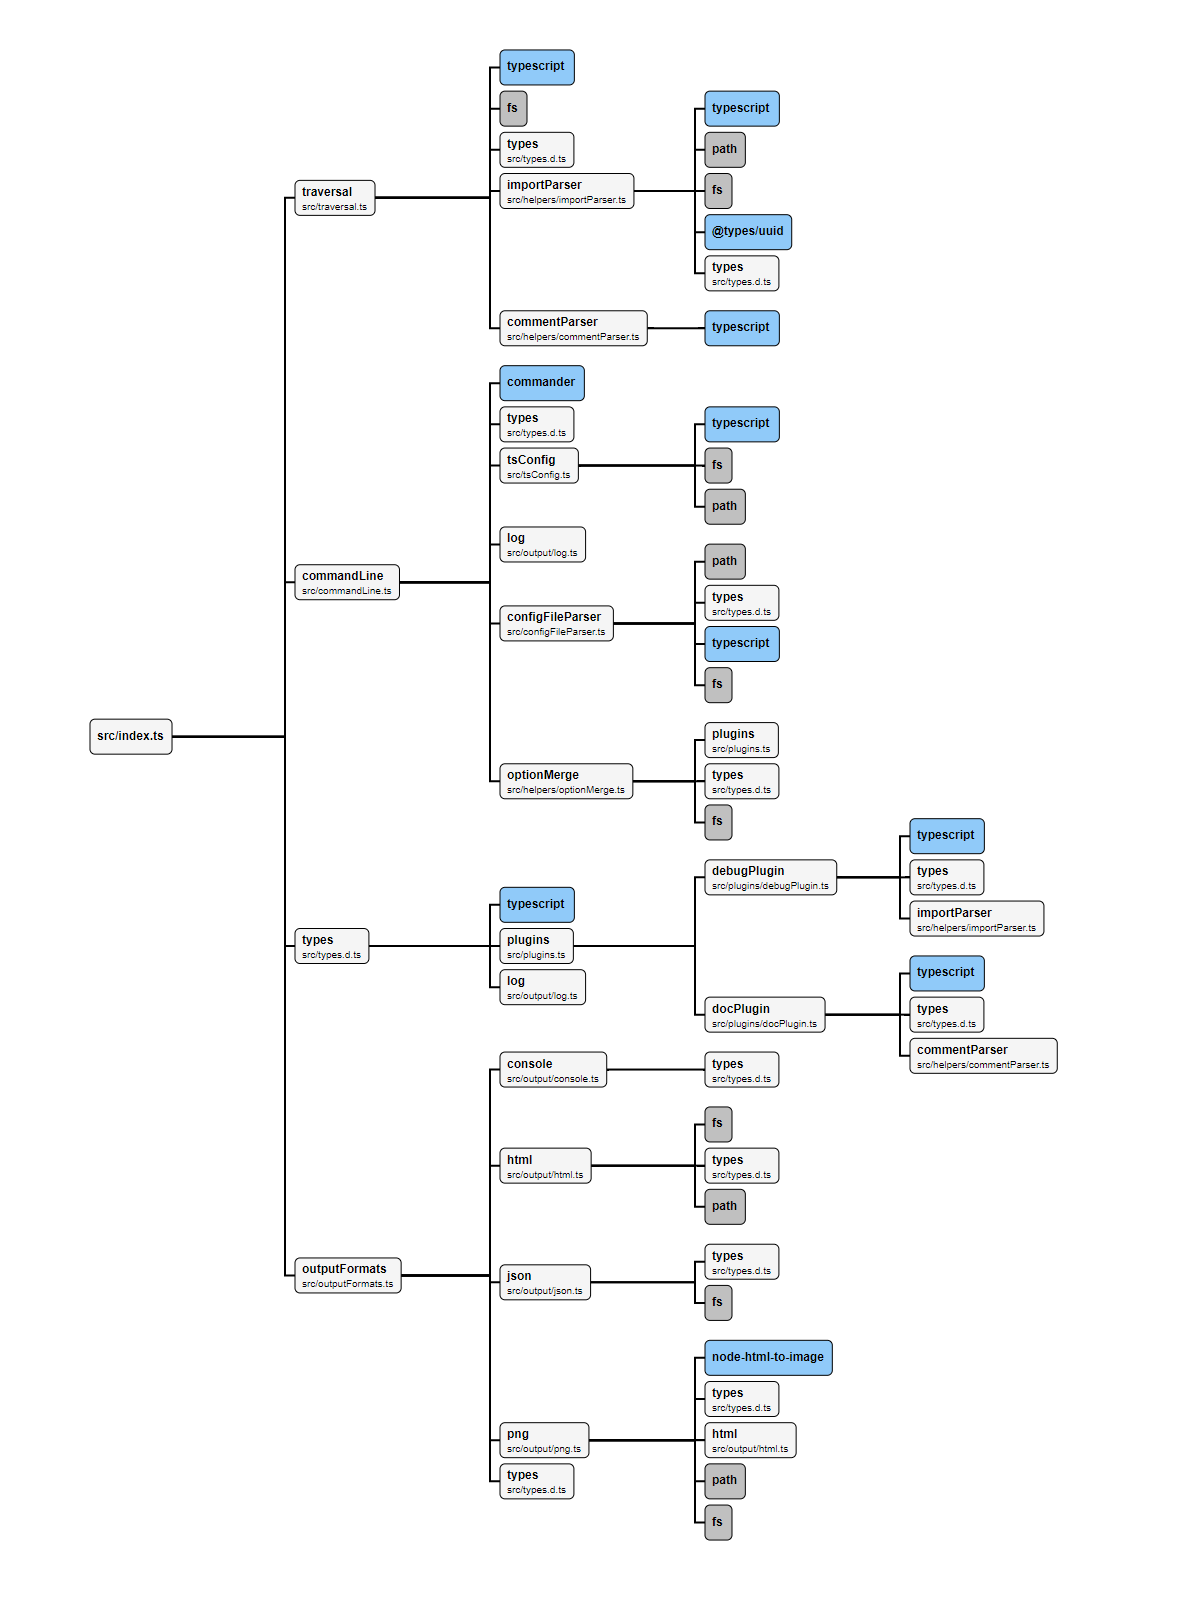
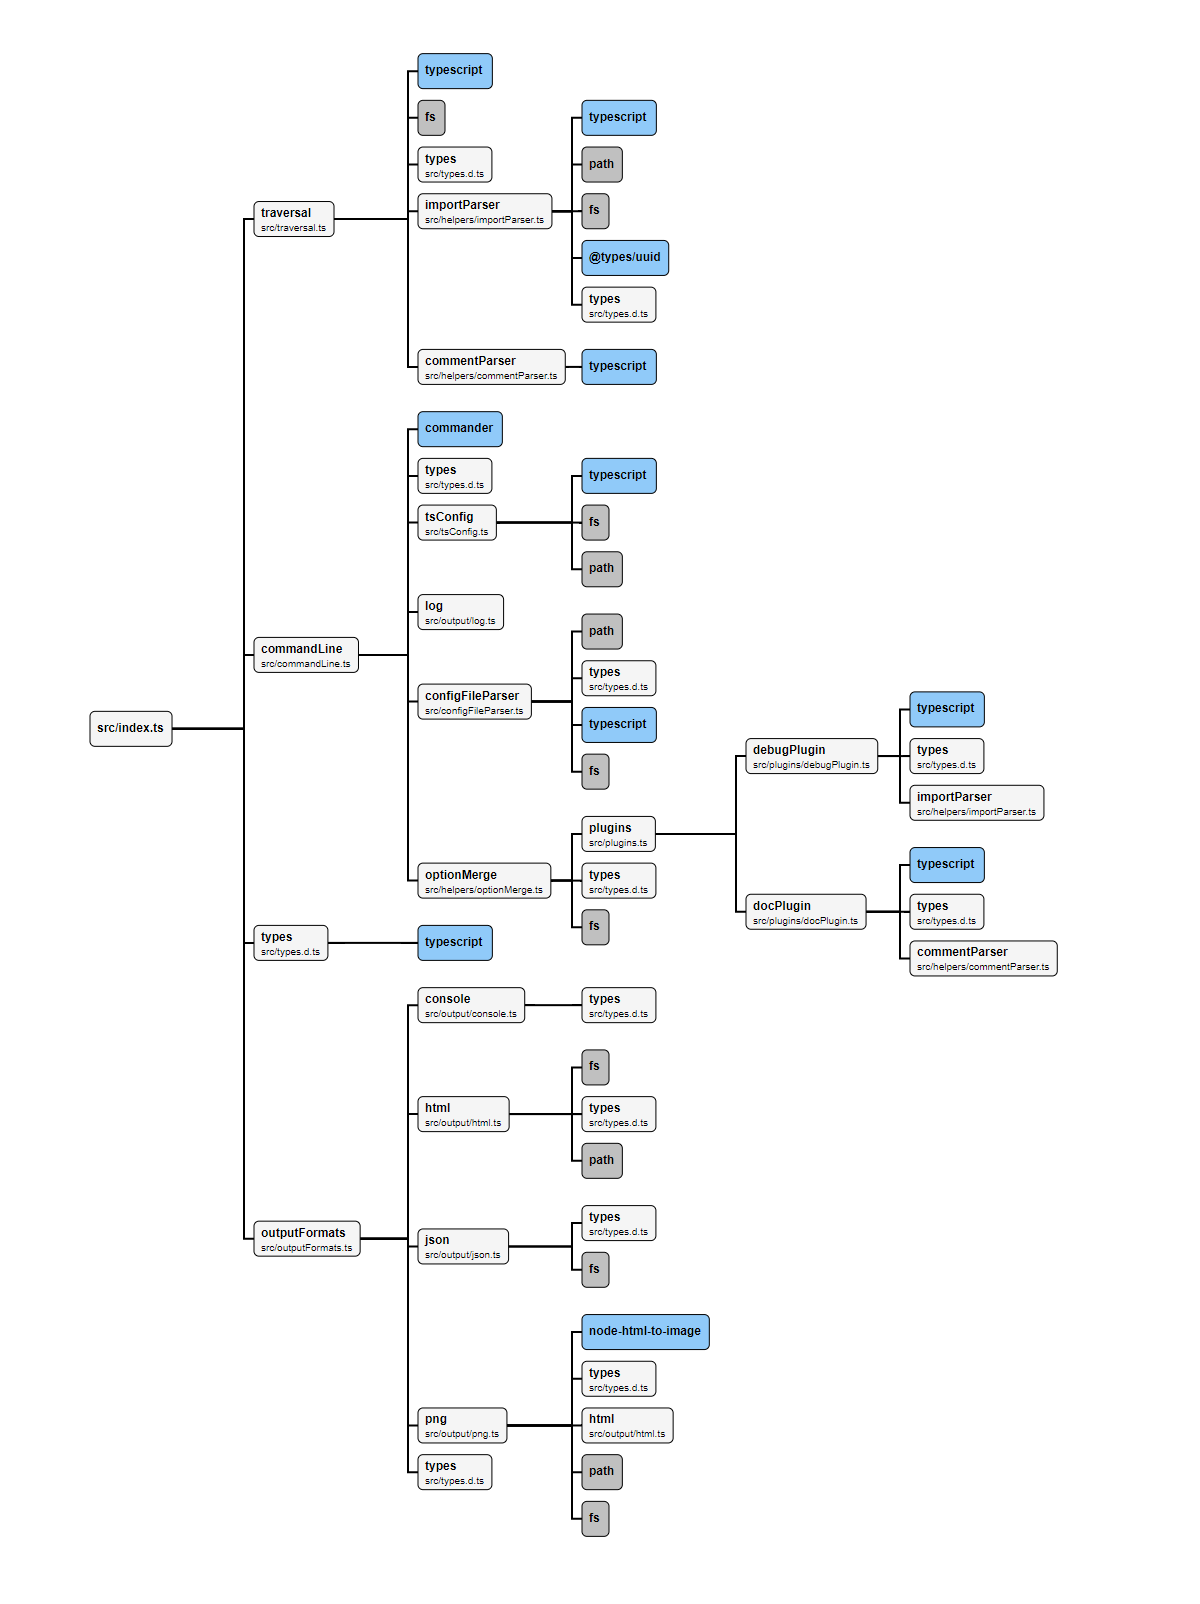
3 Simplified types

diff --git a/src/types.d.ts b/src/types.d.ts
@@ -1,10 +1,13 @@
-import { CompilerOptions } from "typescript";
-import type { TraversalPlugin } from "./plugins";
-import type { log } from "./output/log";
+import type { CompilerOptions, SourceFile, Node } from "typescript";
 
 export type OutputFormats = "html" | "console" | "json" | "png";
 
+export type PluginName = "debug" | "doc";
+export type PluginProcessor = (node: Node, sourceFile: SourceFile, key: string, options: MainOptions) => void;
+export type TraversalPlugin = { name: PluginName; processor: PluginProcessor };
+
 type ImportType = "Node module" | "Source file" | "Unknown";
+type Logger = (...data: any[]) => void;
 
 export interface ImportInfoV2 {
     // Same as absolutePath
@@ -81,7 +84,7 @@ export interface MainOptions {
     tsConfigFilePath?: string;
     tsConfigPath?: string;
     compilerOptions?: CompilerOptions;
-    logger: typeof log;
+    logger: Logger;
 }
 
 export type CommandLineParams = {

diff --git a/src/helpers/optionMerge.ts b/src/helpers/optionMerge.ts
@@ -1,5 +1,5 @@
-import { PluginName, TraversalPlugin, predefinedPlugins } from "../plugins";
-import { CommandLineParams, InspOptions, OutputFormats } from "../types";
+import { predefinedPlugins } from "../plugins";
+import { CommandLineParams, InspOptions, OutputFormats, PluginName, TraversalPlugin } from "../types";
 import * as fs from "fs";
 
 const mergeArrays = <T>(arr1: T[] = [], arr2: T[] = []): T[] => [...arr1, ...arr2];

diff --git a/src/plugins.ts b/src/plugins.ts
@@ -2,7 +2,3 @@ import { exportPlugin } from "./plugins/debugPlugin";
 import { docPlugin } from "./plugins/docPlugin";
 
 export const predefinedPlugins = { debug: exportPlugin, doc: docPlugin };
-
-export type PluginName = keyof typeof predefinedPlugins;
-export type PluginProcessor = (typeof predefinedPlugins)[PluginName];
-export type TraversalPlugin = { name: PluginName; processor: PluginProcessor };
